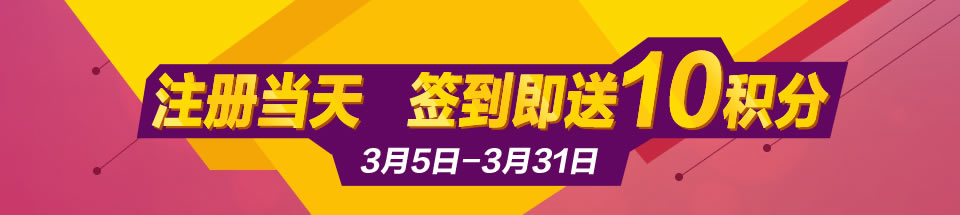
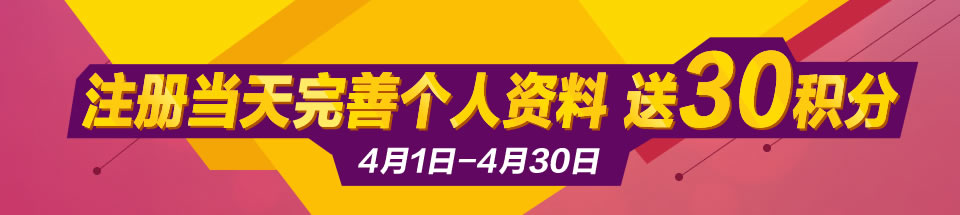
对应 issue  #310
4月份积粒网campaign：注册当日填写个人信息，奖励积分

Changed region(s): [[0.0625, 0.1674, 0.9688, 0.6698], [0.375, 0.6698, 0.625, 0.8093]]

diff --git a/src/Jili/ApiBundle/Controller/UserController.php b/src/Jili/ApiBundle/Controller/UserController.php
@@ -556,45 +556,112 @@ class UserController extends Controller
 				$birthday = $year;
 				if($month)
 					$birthday = $birthday.'-'.$month;
-			}	
-			if($hobby)
-				$hobbys  = substr($hobby,0,strlen($hobby)-1); 
+			}
+			if($hobby){
+				$hobbys  = substr($hobby,0,strlen($hobby)-1);
+			}
 			if($tel){
 				if(!preg_match("/^13[0-9]{1}[0-9]{8}$|14[0-9]{1}[0-9]{8}$|15[0-9]{1}[0-9]{8}$|18[0-9]{1}[0-9]{8}$/",$tel)){
 					$codeflag = $this->container->getParameter('update_wr_mobile');
 					$code[] = array("code"=>$this->container->getParameter('init_five'),"msg"=>$codeflag);
-				}else{
-					$user->setSex($sex);
-					$user->setBirthday($birthday);
-					$user->setProvince($provinceId);
-					$user->setCity($city);
-					$user->setTel($tel);
-					$user->setIncome($month_income);
-					$user->setHobby($hobbys);
-					$user->setIsInfoSet($this->container->getParameter('init_one'));
-					$em->flush();
-					$code[] = array("code"=>$this->container->getParameter('init_one'));  
+					return new Response(json_encode($code));
 				}
-			}else{
-				$user->setSex($sex);
-				$user->setBirthday($birthday);
-				$user->setProvince($provinceId);
-				$user->setCity($city);
-				$user->setTel($tel);
-				$user->setIncome($month_income);
-				$user->setHobby($hobbys);
-				$user->setIsInfoSet($this->container->getParameter('init_one'));
-				$em->flush();
-        		$code[] = array("code"=>$this->container->getParameter('init_one')); 
 			}
+
+			$user->setSex($sex);
+			$user->setBirthday($birthday);
+			$user->setProvince($provinceId);
+			$user->setCity($city);
+			$user->setTel($tel);
+			$user->setIncome($month_income);
+			$user->setHobby($hobbys);
+			$user->setIsInfoSet($this->container->getParameter('init_one'));
+			$em->flush();
+
+			//获得分数， user, point_history , task_history
+			$point = $this->getPointsForReward();
+			if($this->issetPoints($id)){
+				$this->updatePoint($id,$point);
+			}
+			$code[] = array("code"=>$this->container->getParameter('init_one'));
 		}else{
 			$codeflag = $this->container->getParameter('reg_mobile');
 			$code[] = array("code"=>$this->container->getParameter('init_four'),"msg"=>$codeflag);
 		}
-	
+
 		return new Response(json_encode($code));
 	}
 
+	//获得分数
+	private function getPointsForReward(){
+		$em = $this->getDoctrine()->getManager();
+		//默认值
+		$maxPoint = 10;//永久为10个，默认情况
+		//判断是否是当天注册
+		$request = $this->get('request');
+		$uid = $request->getSession()->get('uid');
+		if($uid){
+			$user = $em->getRepository('JiliApiBundle:User')->find($uid);
+			$reg_date = $user->getRegisterDate()->format('Y-m-d');
+			//注册当天填写属性
+			if(date('Y-m-d') == $reg_date){
+				// 4月份
+				if(date('Ym') == '201404'){
+					$maxPoint = 30;//4月份当天注册，并填写属性
+				}else{
+					$maxPoint = 20;//4月以后当天注册，并填写属性
+				}
+			}
+		}
+		return $maxPoint;
+	}
+
+	//判断是否获得过分数
+	private function issetPoints($userid){
+		$em = $this->getDoctrine()->getManager();
+		$task = $em->getRepository('JiliApiBundle:PointHistory0'. ( $userid % 10));
+		$task_order = $task->issetInsertReward($userid);
+		if(empty($task_order)){
+			return true;
+		}else{
+			return false;
+		}
+	}
+
+	//更新point: user, point_history , task_history
+	private function updatePoint($userId,$point){
+		$em = $this->getDoctrine()->getManager();
+
+		//更新user表总分数
+		$user = $em->getRepository('JiliApiBundle:User')->find($userId);
+		$oldPoint = $user->getPoints();
+		$user->setPoints(intval($oldPoint+$point));
+		$em->persist($user);
+		$em->flush();
+
+		//更新point_history表分数
+		$params = array (
+					'userid' => $userId,
+					'point' => $point,
+					'type' => 9,//9:完善资料
+				);
+		$pointLister = $this->get('general_api.point_history');
+		$pointLister->get($params);
+
+		//更新task_history表分数
+		$params = array (
+			'userid' => $userId,
+			'orderId' => 0,
+			'taskType' => 4,
+			'categoryType' => 9,//9:完善资料
+			'task_name' => '完善资料获取米粒',
+			'point' => $point,
+			'date' => date_create(date('Y-m-d H:i:s')),
+			'status' => 1
+		);
+		$taskLister = $this->get('general_api.task_history');
+		$taskLister->init($params);
+	}
 
 	private function notReadCb(){
 		$id = $this->get('request')->getSession()->get('uid');

diff --git a/src/Jili/ApiBundle/Repository/PointHistoryRepository.php b/src/Jili/ApiBundle/Repository/PointHistoryRepository.php
@@ -21,6 +21,16 @@ class PointHistoryRepository extends EntityRepository
 		$query =  $query->getQuery();
 		return $query->getResult();
 	}
-	
-	
+
+	public function issetInsertReward($uid)
+	{
+		$query = $this->createQueryBuilder('ph');
+		$query = $query->select('ph.id');
+		$query = $query->Where('ph.userId = :uid');
+		$query = $query->andWhere('ph.reason = 9');
+		$query = $query->setParameters(array('uid'=>$uid));
+		$query =  $query->getQuery();
+		return $query->getResult();
+	}
+
 }
